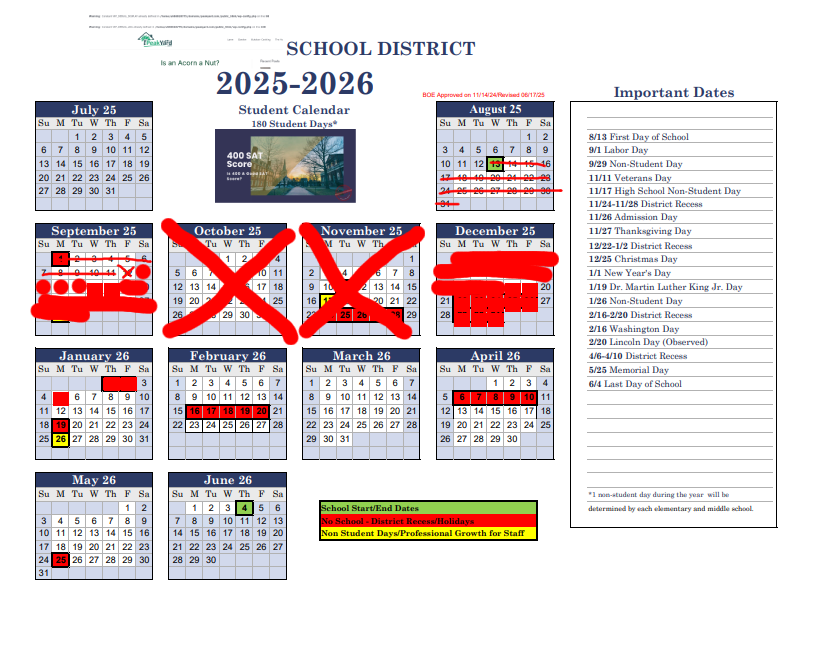
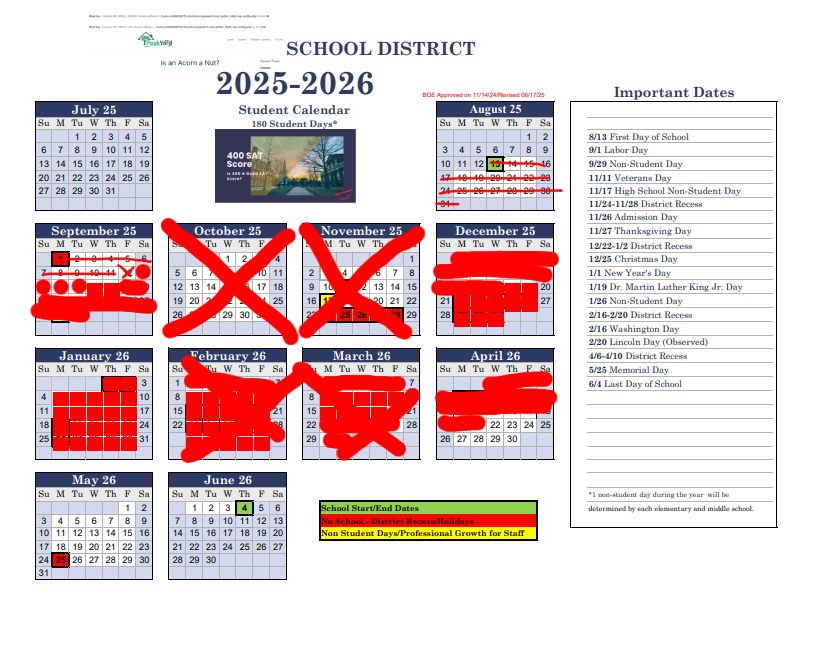
367

Changed region(s): [[0.2177, 0.5152, 0.6842, 0.697], [0.0622, 0.5758, 0.1866, 0.697]]

diff --git a/test.py b/test.py
@@ -1,0 +1,53 @@
+import cv2
+import datetime
+
+width = 15
+height = 13
+
+monthDict = {
+    9:(36,253),
+    10:(169,253),
+    11:(303,253),
+    12:(437,253),
+    1:(36,377), 
+    2:(169,377),
+    3:(303,377),
+    4:(436,367),
+    5:(36,502),
+    6:(169,502)
+}
+
+def resetCalendar():
+    img = cv2.imread("backup.png")
+    cv2.imwrite("calendar.png", img)
+
+
+def markCalendar(month,weekmonth,weekday):
+    month = monthDict[month]#datetime.datetime.now().month]
+    weekmonth = weekmonth-1
+
+    x = month[0]+((width+2)*weekday)
+    y = month[1]+((height+2)*weekmonth)
+    img = cv2.imread("calendar.png")
+    cv2.rectangle(img,(x,y),(x+width,y+height),(0,0,255),-1)
+    cv2.imwrite("calendar.png", img)
+
+import pytz
+tz = pytz.timezone("America/Los_Angeles")
+
+
+def monthMap(m):
+    return ((m + 3) % 12) + 2
+
+def weekOfMonth(date):
+    first_day_of_month = date.replace(day=1)
+    adjusted_day = date.day + first_day_of_month.weekday()
+    return (adjusted_day - 1) // 7 + 1
+
+now = datetime.datetime.now(tz)
+month = monthMap(now.month)
+
+week = weekOfMonth(now.date())
+day = now.weekday()+1
+markCalendar(now.month,week,day)
+
